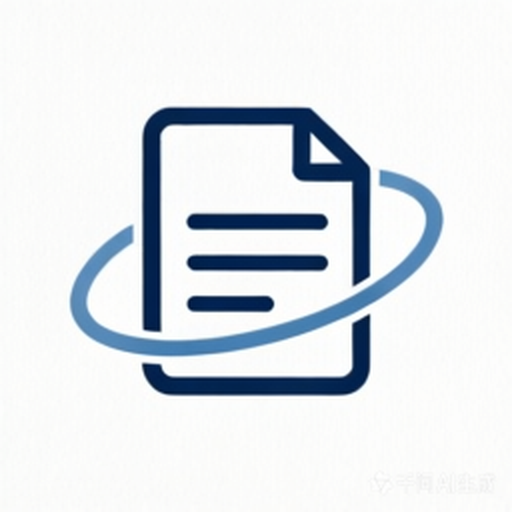
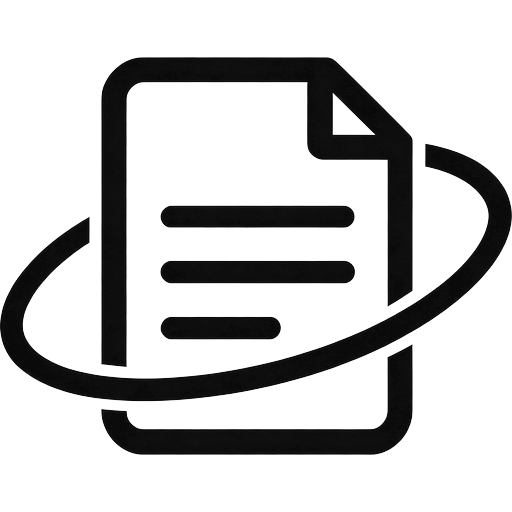
浏览器窗口小图标设计

diff --git a/src/routes/__root.tsx b/src/routes/__root.tsx
@@ -79,8 +79,8 @@ function RootComponent() {
     <html lang={locale} suppressHydrationWarning>
       <head>
         <HeadContent />
-        <link rel="icon" href="/favicon.ico?v=2" />
-        <link rel="icon" href="/icon.png" />
+        <link rel="icon" href="/favicon.ico?v=4" />
+        <link rel="icon" href="/icon.png?v=4" />
       </head>
       <body>
         <NextIntlClientProvider

diff --git a/src/components/Document.tsx b/src/components/Document.tsx
@@ -29,7 +29,7 @@ export default function Document({ children, locale, bodyClassName }: Props) {
           type="font/ttf"
           crossOrigin="anonymous"
         />
-        <link rel="icon" href="/favicon.ico?v=3" />
+        <link rel="icon" href="/favicon.ico?v=4" />
       </head>
       <body className={bodyClassName}>{children}</body>
     </html>
